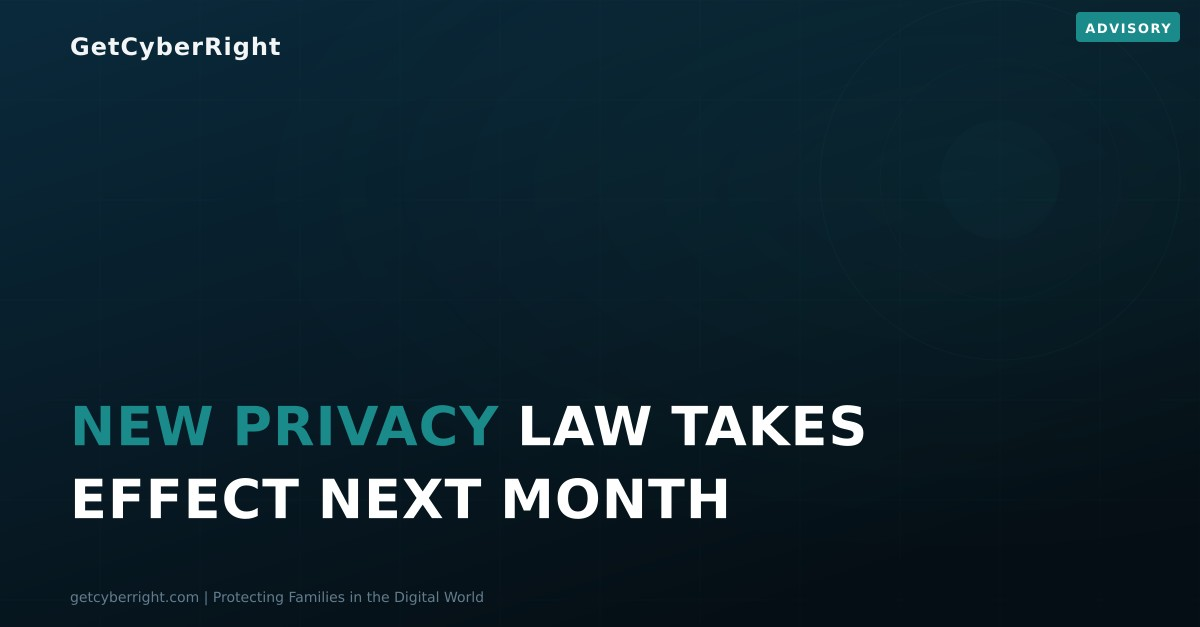
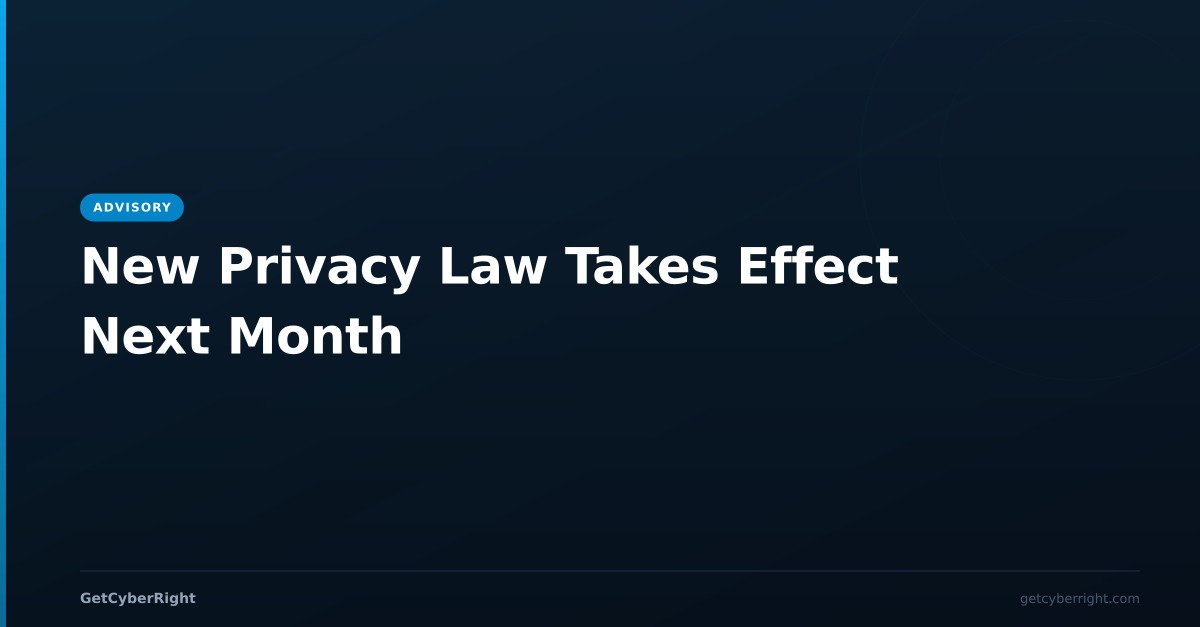
Update social image templates to reflect established branding standards
Refactors social image service and updates sample images to implement a new branding strategy, including accent color stripes, cleaner typography, and severity pill badges.

Replit-Commit-Author: Agent
Replit-Commit-Session-Id: c6921d21-ab37-458f-b397-d64726b2dc81
Replit-Commit-Checkpoint-Type: full_checkpoint
Replit-Commit-Event-Id: 036dbf64-773c-4a79-b601-616f34593f17
Replit-Commit-Screenshot-Url: https://storage.googleapis.com/screenshot-production-us-central1/924e6b5f-16e9-49c9-929b-489d2a4ca32f/c6921d21-ab37-458f-b397-d64726b2dc81/2uwLEAX
Replit-Helium-Checkpoint-Created: true

diff --git a/server/socialImageService.ts b/server/socialImageService.ts
@@ -4,7 +4,6 @@ import * as path from "path";
 import * as crypto from "crypto";
 
 const SOCIAL_IMAGES_DIR = path.join(process.cwd(), ".local", "social-images");
-const LOGO_PATH = path.join(process.cwd(), "client", "public", "lock-logo-transparent.png");
 
 const PLATFORM_DIMENSIONS: Record<string, { width: number; height: number }> = {
   facebook: { width: 1200, height: 630 },
@@ -15,16 +14,16 @@ const PLATFORM_DIMENSIONS: Record<string, { width: number; height: number }> = {
 };
 
 const BRAND = {
-  darkTeal: "#0A2A3C",
-  deepTeal: "#00293C",
-  navDark: "#071A24",
-  footerDark: "#081C26",
-  orange: "#E8612D",
-  orangeLight: "#F28C5A",
-  tealAccent: "#1A8A8A",
+  navy: "#0B1929",
+  deepNavy: "#060F1A",
+  cardBg: "#101D2E",
+  accentTeal: "#00C9A7",
+  accentOrange: "#FF6B35",
   white: "#FFFFFF",
-  lightGray: "#C8D8E4",
-  mutedGray: "#7A96A8",
+  offWhite: "#E8EDF2",
+  lightGray: "#94A3B8",
+  midGray: "#475569",
+  borderSubtle: "#1E3048",
 };
 
 interface TopicConfig {
@@ -37,57 +36,57 @@ interface TopicConfig {
 
 const TOPIC_CONFIG: Record<string, TopicConfig> = {
   phishing: {
-    accent: "#E8612D",
-    iconPath: `<path d="M12 2L2 7v10l10 5 10-5V7L12 2zm0 2.18l7 3.5v7.64l-7 3.5-7-3.5V7.68l7-3.5zM12 8a1 1 0 00-1 1v4a1 1 0 002 0V9a1 1 0 00-1-1zm0 8a1 1 0 100-2 1 1 0 000 2z" fill="#E8612D"/>`,
+    accent: "#FF6B35",
+    iconPath: "",
     tips: ["Verify the sender before clicking", "Check URLs for misspellings", "Never share passwords via email"],
     stat: "3.4B",
     statLabel: "fake emails sent daily",
   },
   scam: {
-    accent: "#E8612D",
-    iconPath: `<path d="M12 1L3 5v6c0 5.55 3.84 10.74 9 12 5.16-1.26 9-6.45 9-12V5l-9-4zm0 2.18l7 3.12v5.7c0 4.47-3.07 8.67-7 9.82-3.93-1.15-7-5.35-7-9.82V6.3l7-3.12zM11 7v6h2V7h-2zm0 8v2h2v-2h-2z" fill="#E8612D"/>`,
+    accent: "#FF6B35",
+    iconPath: "",
     tips: ["If it sounds too good, question it", "Research before you pay", "Trust your instincts on pressure tactics"],
     stat: "$20.9B",
     statLabel: "lost to cybercrime annually",
   },
   identity_theft: {
-    accent: "#4ECDC4",
-    iconPath: `<path d="M12 2C9.24 2 7 4.24 7 7s2.24 5 5 5 5-2.24 5-5-2.24-5-5-5zm0 2c1.66 0 3 1.34 3 3s-1.34 3-3 3-3-1.34-3-3 1.34-3 3-3zM12 14c-4 0-8 2-8 4v2h16v-2c0-2-4-4-8-4zm-5.87 4c.36-.62 3.07-2 5.87-2s5.51 1.38 5.87 2H6.13z" fill="#4ECDC4"/><path d="M20 10h-2V8a1 1 0 00-2 0v2h-2a1 1 0 000 2h2v2a1 1 0 002 0v-2h2a1 1 0 000-2z" fill="#4ECDC4" opacity="0.6"/>`,
+    accent: "#00C9A7",
+    iconPath: "",
     tips: ["Freeze your credit with all 3 bureaus", "Use unique passwords everywhere", "Monitor bank statements weekly"],
     stat: "1M+",
     statLabel: "cybercrime complaints filed annually",
   },
   privacy: {
-    accent: "#4ECDC4",
-    iconPath: `<path d="M12 4.5C7 4.5 2.73 7.61 1 12c1.73 4.39 6 7.5 11 7.5s9.27-3.11 11-7.5c-1.73-4.39-6-7.5-11-7.5zM12 17c-2.76 0-5-2.24-5-5s2.24-5 5-5 5 2.24 5 5-2.24 5-5 5zm0-8c-1.66 0-3 1.34-3 3s1.34 3 3 3 3-1.34 3-3-1.34-3-3-3z" fill="#4ECDC4"/>`,
+    accent: "#00C9A7",
+    iconPath: "",
     tips: ["Review app permissions regularly", "Use privacy-focused browsers", "Limit what you share online"],
     stat: "80%",
     statLabel: "of breaches involve personal data",
   },
   password: {
-    accent: "#F7B731",
-    iconPath: `<path d="M18 8h-1V6c0-2.76-2.24-5-5-5S7 3.24 7 6v2H6c-1.1 0-2 .9-2 2v10c0 1.1.9 2 2 2h12c1.1 0 2-.9 2-2V10c0-1.1-.9-2-2-2zm-6 9c-1.1 0-2-.9-2-2s.9-2 2-2 2 .9 2 2-.9 2-2 2zM9 8V6c0-1.66 1.34-3 3-3s3 1.34 3 3v2H9z" fill="#F7B731"/>`,
+    accent: "#F59E0B",
+    iconPath: "",
     tips: ["Use 16+ character passphrases", "Enable two-factor authentication", "Use a password manager"],
     stat: "81%",
     statLabel: "of breaches use weak passwords",
   },
   malware: {
-    accent: "#FF6B6B",
-    iconPath: `<path d="M12 2C6.48 2 2 6.48 2 12s4.48 10 10 10 10-4.48 10-10S17.52 2 12 2zm-2 15l-5-5 1.41-1.41L10 14.17l7.59-7.59L19 8l-9 9z" fill="#FF6B6B" opacity="0"/><path d="M19.07 4.93l-1.41 1.41A8.014 8.014 0 0020 12c0 4.42-3.58 8-8 8s-8-3.58-8-8 3.58-8 8-8c2.08 0 3.97.81 5.41 2.09l1.41-1.41A9.969 9.969 0 0012 2C6.48 2 2 6.48 2 12s4.48 10 10 10 10-4.48 10-10c0-2.76-1.12-5.26-2.93-7.07z" fill="#FF6B6B"/><path d="M12 8a1 1 0 00-1 1v4a1 1 0 002 0V9a1 1 0 00-1-1zm0 8a1 1 0 100-2 1 1 0 000 2z" fill="#FF6B6B"/>`,
+    accent: "#EF4444",
+    iconPath: "",
     tips: ["Keep your software updated", "Only download from trusted sources", "Use built-in security tools"],
     stat: "560K",
     statLabel: "new threats detected daily",
   },
   data_breach: {
-    accent: "#FF6B6B",
-    iconPath: `<path d="M12 1L3 5v6c0 5.55 3.84 10.74 9 12 5.16-1.26 9-6.45 9-12V5l-9-4zm0 2.18l7 3.12v5.7c0 4.47-3.07 8.67-7 9.82-3.93-1.15-7-5.35-7-9.82V6.3l7-3.12z" fill="#FF6B6B"/><path d="M10 14.5l-3.5-3.5 1.41-1.41L10 11.67l5.59-5.59L17 7.5l-7 7z" fill="#FF6B6B" opacity="0.5"/>`,
+    accent: "#EF4444",
+    iconPath: "",
     tips: ["Check if your data has been exposed", "Change passwords immediately", "Watch for unusual account activity"],
     stat: "4,100+",
     statLabel: "data breaches disclosed annually",
   },
   default: {
-    accent: "#E8612D",
-    iconPath: `<path d="M12 1L3 5v6c0 5.55 3.84 10.74 9 12 5.16-1.26 9-6.45 9-12V5l-9-4zm0 2.18l7 3.12v5.7c0 4.47-3.07 8.67-7 9.82-3.93-1.15-7-5.35-7-9.82V6.3l7-3.12z" fill="#E8612D"/>`,
+    accent: "#00C9A7",
+    iconPath: "",
     tips: ["Stay informed about new threats", "Talk to your family about safety", "Use strong, unique passwords"],
     stat: "2,200+",
     statLabel: "cyberattacks happen every day",
@@ -137,176 +136,148 @@ function buildLandscapeSvg(
   width: number,
   height: number,
   title: string,
-  topic: TopicConfig
+  topic: TopicConfig,
+  badgeLabel?: string,
+  badgeColor?: string
 ): string {
-  const uppercaseTitle = title.toUpperCase();
-  const titleLines = wrapText(uppercaseTitle, 24);
-  const fontSize = titleLines.length > 3 ? 42 : titleLines.length > 2 ? 48 : 54;
-  const lineHeight = fontSize * 1.35;
-  const totalTextHeight = Math.min(titleLines.length, 4) * lineHeight;
-  const padX = 70;
-  const headlineStartY = height - 90 - totalTextHeight;
+  const titleLines = wrapText(title, 30);
+  const fontSize = titleLines.length > 3 ? 38 : titleLines.length > 2 ? 44 : 50;
+  const lineHeight = fontSize * 1.4;
+  const padX = 80;
+  const accentBarWidth = 6;
 
   if (titleLines.length > 4) {
     titleLines.length = 4;
     titleLines[3] = titleLines[3].slice(0, -3) + "...";
   }
 
-  const importantTerms = ["BREACH", "HACK", "ATTACK", "WARNING", "ALERT", "CRITICAL", "RANSOMWARE", "MALWARE", "SCAM", "FRAUD", "PHISHING", "EXPLOIT", "VULNERABILITY", "ZERO-DAY", "LEAKED", "STOLEN", "EXPOSED", "SUSPENDS", "BLOCKS", "MILLION", "BILLION", "COMPROMISED", "EMERGENCY", "URGENT", "DATA", "SECURITY", "PRIVACY", "THREAT", "CYBER", "NEW", "MAJOR"];
+  const totalTextHeight = Math.min(titleLines.length, 4) * lineHeight;
+  const headlineStartY = (height - totalTextHeight) / 2 - 10;
 
   let headlineSvg = "";
   for (let lineIdx = 0; lineIdx < titleLines.length; lineIdx++) {
     const y = headlineStartY + lineIdx * lineHeight + fontSize;
-    const words = titleLines[lineIdx].split(" ");
-    const tspans = words.map(w => {
-      const isAccent = importantTerms.some(t => w.includes(t));
-      return isAccent
-        ? `<tspan fill="${topic.accent}" font-weight="900">${escapeXml(w)}</tspan>`
-        : `<tspan>${escapeXml(w)}</tspan>`;
-    }).join(" ");
-    headlineSvg += `<text x="${padX}" y="${y}" font-family="Arial,Helvetica,sans-serif" font-size="${fontSize}" font-weight="900" fill="${BRAND.white}" letter-spacing="1" word-spacing="8">${tspans}</text>`;
+    headlineSvg += `<text x="${padX}" y="${y}" font-family="'Inter','Segoe UI',Arial,sans-serif" font-size="${fontSize}" font-weight="800" fill="${BRAND.white}" letter-spacing="-0.5">${escapeXml(titleLines[lineIdx])}</text>`;
   }
 
-  const gridLines: string[] = [];
-  for (let i = 0; i < 12; i++) {
-    gridLines.push(`<line x1="${100 + i * 100}" y1="0" x2="${100 + i * 100}" y2="${height}" stroke="${topic.accent}" stroke-width="0.5" opacity="0.05"/>`);
+  let badgeSvg = "";
+  if (badgeLabel && badgeColor) {
+    const pillW = badgeLabel.length * 9.5 + 28;
+    badgeSvg = `
+    <rect x="${padX}" y="${headlineStartY - 40}" width="${pillW}" height="28" rx="14" fill="${badgeColor}"/>
+    <text x="${padX + pillW / 2}" y="${headlineStartY - 22}" font-family="'Inter','Segoe UI',Arial,sans-serif" font-size="12" font-weight="700" fill="#FFFFFF" text-anchor="middle" letter-spacing="1.2">${escapeXml(badgeLabel)}</text>`;
   }
-  for (let i = 0; i < 7; i++) {
-    gridLines.push(`<line x1="0" y1="${i * 100}" x2="${width}" y2="${i * 100}" stroke="${topic.accent}" stroke-width="0.5" opacity="0.05"/>`);
-  }
+
+  const bottomBarY = height - 56;
 
   return `<svg width="${width}" height="${height}" xmlns="http://www.w3.org/2000/svg">
   <defs>
-    <linearGradient id="bg" x1="0" y1="0" x2="0.6" y2="1">
-      <stop offset="0%" stop-color="${BRAND.darkTeal}"/>
-      <stop offset="100%" stop-color="#050E14"/>
+    <linearGradient id="bg" x1="0" y1="0" x2="0" y2="1">
+      <stop offset="0%" stop-color="${BRAND.navy}"/>
+      <stop offset="100%" stop-color="${BRAND.deepNavy}"/>
     </linearGradient>
-    <radialGradient id="glow" cx="80%" cy="30%" r="60%">
-      <stop offset="0%" stop-color="${topic.accent}" stop-opacity="0.08"/>
+    <linearGradient id="accentGrad" x1="0" y1="0" x2="0" y2="1">
+      <stop offset="0%" stop-color="${topic.accent}"/>
+      <stop offset="100%" stop-color="${topic.accent}" stop-opacity="0.6"/>
+    </linearGradient>
+    <linearGradient id="shimmer" x1="0" y1="0" x2="1" y2="1">
+      <stop offset="0%" stop-color="${topic.accent}" stop-opacity="0.06"/>
+      <stop offset="50%" stop-color="${topic.accent}" stop-opacity="0.02"/>
       <stop offset="100%" stop-color="${topic.accent}" stop-opacity="0"/>
-    </radialGradient>
+    </linearGradient>
   </defs>
 
   <rect width="${width}" height="${height}" fill="url(#bg)"/>
-  <rect width="${width}" height="${height}" fill="url(#glow)"/>
+  <rect width="${width}" height="${height}" fill="url(#shimmer)"/>
 
-  ${gridLines.join("\n  ")}
+  <rect x="0" y="0" width="${accentBarWidth}" height="${height}" fill="url(#accentGrad)"/>
 
-  <circle cx="${width - 200}" cy="180" r="180" fill="none" stroke="${topic.accent}" stroke-width="1" opacity="0.06"/>
-  <circle cx="${width - 200}" cy="180" r="120" fill="none" stroke="${topic.accent}" stroke-width="0.8" opacity="0.04"/>
-  <circle cx="${width - 200}" cy="180" r="60" fill="${topic.accent}" opacity="0.03"/>
+  <line x1="${padX}" y1="${bottomBarY}" x2="${width - 60}" y2="${bottomBarY}" stroke="${BRAND.borderSubtle}" stroke-width="1"/>
 
-  <text x="${padX}" y="55" font-family="'Segoe UI',Arial,sans-serif" font-size="24" font-weight="700" fill="${BRAND.white}" letter-spacing="1" opacity="0.95">GetCyberRight</text>
+  <text x="${padX}" y="${bottomBarY + 32}" font-family="'Inter','Segoe UI',Arial,sans-serif" font-size="14" font-weight="600" fill="${BRAND.lightGray}">GetCyberRight</text>
+  <text x="${width - 60}" y="${bottomBarY + 32}" font-family="'Inter','Segoe UI',Arial,sans-serif" font-size="13" fill="${BRAND.midGray}" text-anchor="end">getcyberright.com</text>
 
+  <circle cx="${width - 120}" cy="160" r="220" fill="none" stroke="${topic.accent}" stroke-width="0.8" opacity="0.04"/>
+  <circle cx="${width - 120}" cy="160" r="140" fill="none" stroke="${topic.accent}" stroke-width="0.6" opacity="0.03"/>
+
+  ${badgeSvg}
   ${headlineSvg}
-
-  <text x="${padX}" y="${height - 25}" font-family="'Segoe UI',Arial,sans-serif" font-size="14" fill="${BRAND.mutedGray}" opacity="0.8">getcyberright.com  |  Protecting Families in the Digital World</text>
 </svg>`;
-}
-
-function buildSeverityBadgeSvg(
-  width: number,
-  badgeColor: string,
-  badgeLabel: string
-): string {
-  const textWidth = badgeLabel.length * 10 + 24;
-  const badgeX = width - textWidth - 20;
-  return `<rect x="${badgeX}" y="12" width="${textWidth}" height="30" rx="4" fill="${badgeColor}"/>
-  <text x="${badgeX + textWidth / 2}" y="33" font-family="'Segoe UI',Arial,sans-serif" font-size="13" font-weight="800" fill="#FFFFFF" text-anchor="middle" letter-spacing="1.5">${badgeLabel}</text>`;
 }
 
 function buildSquareSvg(
   width: number,
   height: number,
   title: string,
-  topic: TopicConfig
+  topic: TopicConfig,
+  badgeLabel?: string,
+  badgeColor?: string
 ): string {
-  const uppercaseTitle = title.toUpperCase();
-  const titleLines = wrapText(uppercaseTitle, 16);
-  const fontSize = titleLines.length > 4 ? 48 : titleLines.length > 3 ? 54 : 62;
-  const lineHeight = fontSize * 1.35;
-  const totalTextHeight = Math.min(titleLines.length, 5) * lineHeight;
-  const padX = 50;
-  const headlineStartY = height - 120 - totalTextHeight;
+  const titleLines = wrapText(title, 18);
+  const fontSize = titleLines.length > 4 ? 44 : titleLines.length > 3 ? 50 : 58;
+  const lineHeight = fontSize * 1.4;
+  const padX = 60;
+  const accentBarHeight = 6;
 
   if (titleLines.length > 5) {
     titleLines.length = 5;
     titleLines[4] = titleLines[4].slice(0, -3) + "...";
   }
 
-  const importantTerms = ["BREACH", "HACK", "ATTACK", "WARNING", "ALERT", "CRITICAL", "RANSOMWARE", "MALWARE", "SCAM", "FRAUD", "PHISHING", "EXPLOIT", "VULNERABILITY", "ZERO-DAY", "LEAKED", "STOLEN", "EXPOSED", "SUSPENDS", "BLOCKS", "MILLION", "BILLION", "COMPROMISED", "EMERGENCY", "URGENT", "DATA", "SECURITY", "PRIVACY", "THREAT", "CYBER", "NEW", "MAJOR"];
+  const totalTextHeight = Math.min(titleLines.length, 5) * lineHeight;
+  const headlineStartY = (height - totalTextHeight) / 2;
 
   let headlineSvg = "";
   for (let lineIdx = 0; lineIdx < titleLines.length; lineIdx++) {
     const y = headlineStartY + lineIdx * lineHeight + fontSize;
-    const words = titleLines[lineIdx].split(" ");
-    const tspans = words.map(w => {
-      const isAccent = importantTerms.some(t => w.includes(t));
-      return isAccent
-        ? `<tspan fill="${topic.accent}" font-weight="900">${escapeXml(w)}</tspan>`
-        : `<tspan>${escapeXml(w)}</tspan>`;
-    }).join(" ");
-    headlineSvg += `<text x="${padX}" y="${y}" font-family="Arial,Helvetica,sans-serif" font-size="${fontSize}" font-weight="900" fill="${BRAND.white}" letter-spacing="1" word-spacing="8">${tspans}</text>`;
+    headlineSvg += `<text x="${padX}" y="${y}" font-family="'Inter','Segoe UI',Arial,sans-serif" font-size="${fontSize}" font-weight="800" fill="${BRAND.white}" letter-spacing="-0.5">${escapeXml(titleLines[lineIdx])}</text>`;
   }
 
-  const gridLines: string[] = [];
-  for (let i = 0; i < 11; i++) {
-    const pos = 100 + i * 100;
-    gridLines.push(`<line x1="${pos}" y1="0" x2="${pos}" y2="${height}" stroke="${topic.accent}" stroke-width="0.5" opacity="0.04"/>`);
-    gridLines.push(`<line x1="0" y1="${pos}" x2="${width}" y2="${pos}" stroke="${topic.accent}" stroke-width="0.5" opacity="0.04"/>`);
+  let badgeSvg = "";
+  if (badgeLabel && badgeColor) {
+    const pillW = badgeLabel.length * 9.5 + 28;
+    badgeSvg = `
+    <rect x="${padX}" y="${headlineStartY - 20}" width="${pillW}" height="28" rx="14" fill="${badgeColor}"/>
+    <text x="${padX + pillW / 2}" y="${headlineStartY - 2}" font-family="'Inter','Segoe UI',Arial,sans-serif" font-size="12" font-weight="700" fill="#FFFFFF" text-anchor="middle" letter-spacing="1.2">${escapeXml(badgeLabel)}</text>`;
   }
 
   return `<svg width="${width}" height="${height}" xmlns="http://www.w3.org/2000/svg">
   <defs>
-    <linearGradient id="bg" x1="0" y1="0" x2="0.5" y2="1">
-      <stop offset="0%" stop-color="${BRAND.darkTeal}"/>
-      <stop offset="100%" stop-color="#050E14"/>
+    <linearGradient id="bg" x1="0" y1="0" x2="0" y2="1">
+      <stop offset="0%" stop-color="${BRAND.navy}"/>
+      <stop offset="100%" stop-color="${BRAND.deepNavy}"/>
     </linearGradient>
-    <radialGradient id="glow" cx="70%" cy="25%" r="55%">
-      <stop offset="0%" stop-color="${topic.accent}" stop-opacity="0.08"/>
+    <linearGradient id="shimmer" x1="0" y1="0" x2="1" y2="1">
+      <stop offset="0%" stop-color="${topic.accent}" stop-opacity="0.06"/>
+      <stop offset="50%" stop-color="${topic.accent}" stop-opacity="0.02"/>
       <stop offset="100%" stop-color="${topic.accent}" stop-opacity="0"/>
-    </radialGradient>
+    </linearGradient>
   </defs>
 
   <rect width="${width}" height="${height}" fill="url(#bg)"/>
-  <rect width="${width}" height="${height}" fill="url(#glow)"/>
+  <rect width="${width}" height="${height}" fill="url(#shimmer)"/>
 
-  ${gridLines.join("\n  ")}
+  <rect x="0" y="0" width="${width}" height="${accentBarHeight}" fill="${topic.accent}"/>
 
-  <circle cx="${width - 150}" cy="250" r="200" fill="none" stroke="${topic.accent}" stroke-width="1" opacity="0.06"/>
-  <circle cx="${width - 150}" cy="250" r="130" fill="none" stroke="${topic.accent}" stroke-width="0.8" opacity="0.04"/>
-  <circle cx="${width - 150}" cy="250" r="60" fill="${topic.accent}" opacity="0.03"/>
+  <text x="${padX}" y="60" font-family="'Inter','Segoe UI',Arial,sans-serif" font-size="22" font-weight="700" fill="${BRAND.lightGray}">GetCyberRight</text>
 
-  <text x="${padX}" y="60" font-family="'Segoe UI',Arial,sans-serif" font-size="26" font-weight="700" fill="${BRAND.white}" letter-spacing="1" opacity="0.95">GetCyberRight</text>
+  <circle cx="${width - 100}" cy="200" r="240" fill="none" stroke="${topic.accent}" stroke-width="0.8" opacity="0.04"/>
+  <circle cx="${width - 100}" cy="200" r="160" fill="none" stroke="${topic.accent}" stroke-width="0.6" opacity="0.03"/>
 
+  ${badgeSvg}
   ${headlineSvg}
 
-  <text x="${padX}" y="${height - 40}" font-family="'Segoe UI',Arial,sans-serif" font-size="15" fill="${BRAND.mutedGray}" opacity="0.8">getcyberright.com</text>
+  <line x1="${padX}" y1="${height - 70}" x2="${width - 60}" y2="${height - 70}" stroke="${BRAND.borderSubtle}" stroke-width="1"/>
+  <text x="${padX}" y="${height - 35}" font-family="'Inter','Segoe UI',Arial,sans-serif" font-size="14" fill="${BRAND.midGray}">getcyberright.com</text>
 </svg>`;
 }
 
-async function getLogoPngBuffer(size: number): Promise<Buffer | null> {
-  try {
-    if (!fs.existsSync(LOGO_PATH)) {
-      console.warn("[SocialImage] Logo file not found at", LOGO_PATH);
-      return null;
-    }
-    return await sharp(LOGO_PATH)
-      .resize(size, size, { fit: "contain", background: { r: 0, g: 0, b: 0, alpha: 0 } })
-      .png()
-      .toBuffer();
-  } catch (err: any) {
-    console.warn("[SocialImage] Failed to load logo:", err.message);
-    return null;
-  }
-}
-
 const SEVERITY_COLORS: Record<string, { accent: string; badge: string; label: string }> = {
-  critical: { accent: "#FF2D2D", badge: "#FF2D2D", label: "CRITICAL" },
-  high: { accent: "#FF6B35", badge: "#FF6B35", label: "HIGH RISK" },
-  medium: { accent: "#F7B731", badge: "#F7B731", label: "MODERATE" },
-  low: { accent: "#4ECDC4", badge: "#4ECDC4", label: "LOW RISK" },
-  info: { accent: "#1A8A8A", badge: "#1A8A8A", label: "ADVISORY" },
+  critical: { accent: "#EF4444", badge: "#DC2626", label: "CRITICAL" },
+  high: { accent: "#F97316", badge: "#EA580C", label: "HIGH RISK" },
+  medium: { accent: "#F59E0B", badge: "#D97706", label: "MODERATE" },
+  low: { accent: "#00C9A7", badge: "#059669", label: "LOW RISK" },
+  info: { accent: "#0EA5E9", badge: "#0284C7", label: "ADVISORY" },
 };
 
 function getSeverityOverrides(severity?: string): Partial<TopicConfig> & { badge?: string; badgeLabel?: string } {
@@ -333,20 +304,15 @@ export async function generateBrandedImage(
     const config = { ...baseConfig, ...(severityOverrides.accent ? { accent: severityOverrides.accent } : {}) };
     const isSquare = platform === "instagram";
 
-    let svg = isSquare
-      ? buildSquareSvg(dims.width, dims.height, cleanTitle, config)
-      : buildLandscapeSvg(dims.width, dims.height, cleanTitle, config);
+    const svg = isSquare
+      ? buildSquareSvg(dims.width, dims.height, cleanTitle, config, severityOverrides.badgeLabel, severityOverrides.badge)
+      : buildLandscapeSvg(dims.width, dims.height, cleanTitle, config, severityOverrides.badgeLabel, severityOverrides.badge);
 
-    if (severityOverrides.badge && severityOverrides.badgeLabel) {
-      const badgeSvg = buildSeverityBadgeSvg(dims.width, severityOverrides.badge, severityOverrides.badgeLabel);
-      svg = svg.replace("</svg>", `${badgeSvg}\n</svg>`);
-    }
-
-    const hash = crypto.createHash("md5").update(title + platform + (severity || "") + "v5").digest("hex").substring(0, 12);
+    const hash = crypto.createHash("md5").update(title + platform + (severity || "") + "v6").digest("hex").substring(0, 12);
     const filename = `social-${platform}-${hash}.jpeg`;
     const filepath = path.join(SOCIAL_IMAGES_DIR, filename);
 
-    await sharp(Buffer.from(svg)).resize(dims.width, dims.height).jpeg({ quality: 90 }).toFile(filepath);
+    await sharp(Buffer.from(svg)).resize(dims.width, dims.height).jpeg({ quality: 92 }).toFile(filepath);
 
     return filepath;
   } catch (error: any) {
